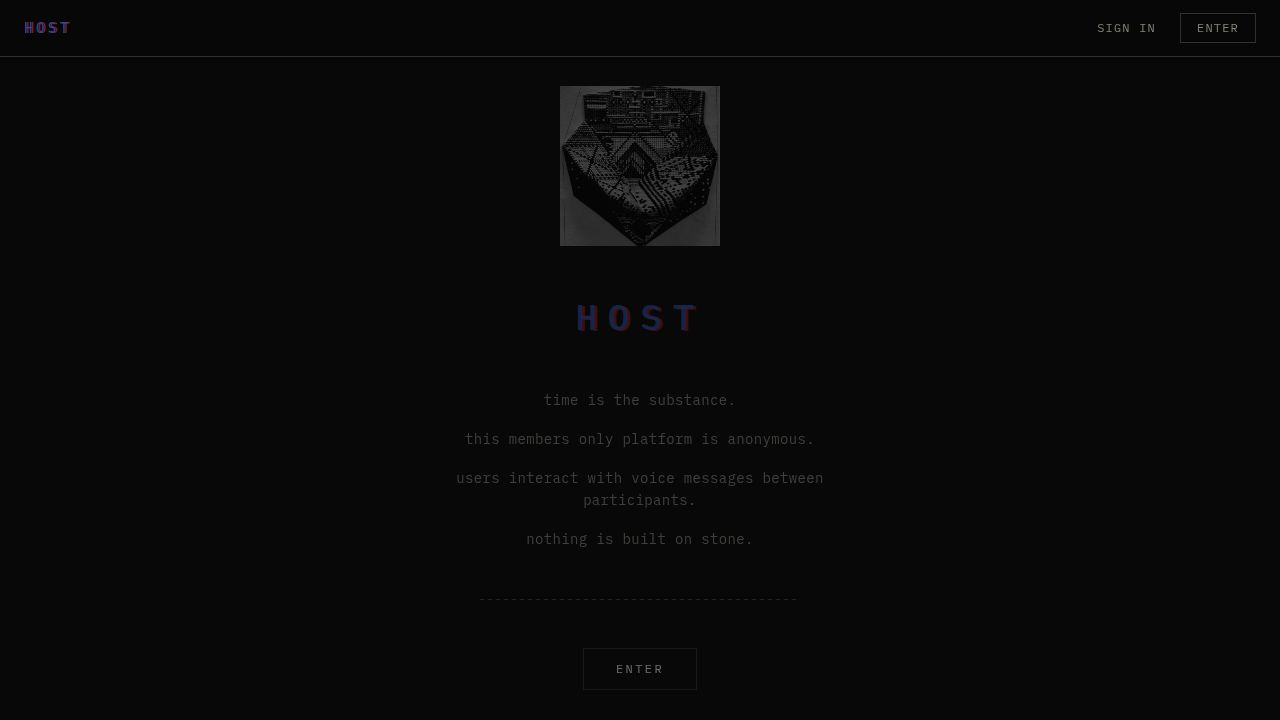
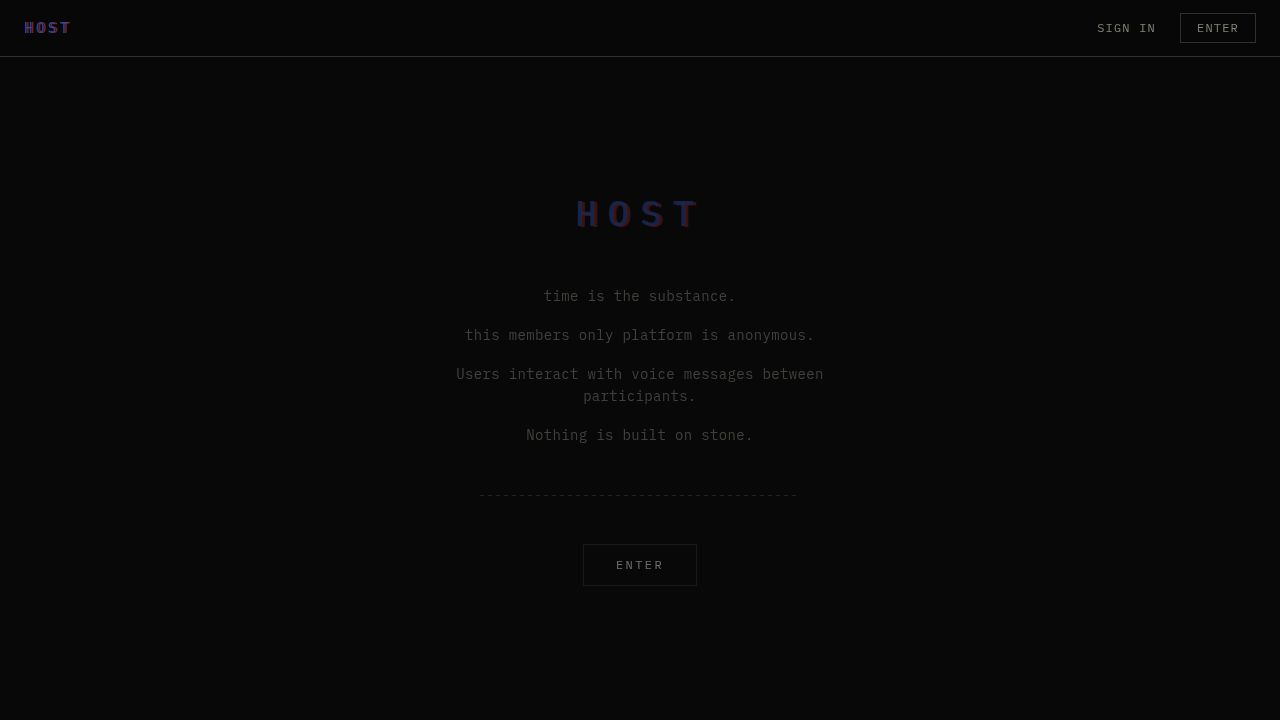
Add custom audio player to enable voice message playback
Replace native audio element with a BlobAudioPlayer component that fetches audio as a blob and creates a local URL, bypassing proxy limitations with streaming and Range headers.

Replit-Commit-Author: Agent
Replit-Commit-Session-Id: 43d64b32-6382-4e8f-a7cd-7d12992f4956
Replit-Commit-Checkpoint-Type: full_checkpoint
Replit-Commit-Event-Id: 525b9545-224a-4ed1-a698-ab76c93f8a33
Replit-Commit-Screenshot-Url: https://storage.googleapis.com/screenshot-production-us-central1/197b8c2d-517c-4af1-ab37-e358a1ab1ac9/43d64b32-6382-4e8f-a7cd-7d12992f4956/MbwB8DU
Replit-Helium-Checkpoint-Created: true

diff --git a/artifacts/host-app/src/pages/room.tsx b/artifacts/host-app/src/pages/room.tsx
@@ -7,7 +7,133 @@ import {
 } from "@workspace/api-client-react";
 import { useState, useRef, useEffect, useCallback } from "react";
 import { useQueryClient } from "@tanstack/react-query";
-import { ArrowLeft, Camera, Mic, MicOff, X, Send, ImageIcon, Volume2 } from "lucide-react";
+import { ArrowLeft, Camera, Mic, MicOff, X, Send, ImageIcon, Volume2, Play, Pause, Loader2 } from "lucide-react";
+
+function BlobAudioPlayer({ src }: { src: string }) {
+  const audioRef = useRef<HTMLAudioElement | null>(null);
+  const [blobUrl, setBlobUrl] = useState<string | null>(null);
+  const [loading, setLoading] = useState(false);
+  const [error, setError] = useState(false);
+  const [playing, setPlaying] = useState(false);
+  const [progress, setProgress] = useState(0);
+  const [duration, setDuration] = useState(0);
+
+  useEffect(() => {
+    return () => {
+      if (blobUrl) URL.revokeObjectURL(blobUrl);
+    };
+  }, [blobUrl]);
+
+  const loadAudio = useCallback(async () => {
+    if (blobUrl) return;
+    setLoading(true);
+    setError(false);
+    try {
+      const resp = await fetch(src);
+      if (!resp.ok) throw new Error("fetch failed");
+      const blob = await resp.blob();
+      const url = URL.createObjectURL(blob);
+      setBlobUrl(url);
+    } catch {
+      setError(true);
+    } finally {
+      setLoading(false);
+    }
+  }, [src, blobUrl]);
+
+  const togglePlay = useCallback(async () => {
+    if (!blobUrl) {
+      await loadAudio();
+      return;
+    }
+    const audio = audioRef.current;
+    if (!audio) return;
+    if (playing) {
+      audio.pause();
+    } else {
+      audio.play();
+    }
+  }, [blobUrl, playing, loadAudio]);
+
+  useEffect(() => {
+    if (!blobUrl) return;
+    const audio = new Audio(blobUrl);
+    audioRef.current = audio;
+
+    audio.addEventListener("loadedmetadata", () => setDuration(audio.duration));
+    audio.addEventListener("timeupdate", () => setProgress(audio.currentTime));
+    audio.addEventListener("play", () => setPlaying(true));
+    audio.addEventListener("pause", () => setPlaying(false));
+    audio.addEventListener("ended", () => { setPlaying(false); setProgress(0); });
+    audio.addEventListener("error", () => setError(true));
+
+    audio.play().catch(() => {});
+
+    return () => {
+      audio.pause();
+      audio.src = "";
+    };
+  }, [blobUrl]);
+
+  const formatTime = (s: number) => {
+    const m = Math.floor(s / 60);
+    const sec = Math.floor(s % 60);
+    return `${m}:${sec.toString().padStart(2, "0")}`;
+  };
+
+  const handleSeek = (e: React.MouseEvent<HTMLDivElement>) => {
+    const audio = audioRef.current;
+    if (!audio || !duration) return;
+    const rect = e.currentTarget.getBoundingClientRect();
+    const pct = (e.clientX - rect.left) / rect.width;
+    audio.currentTime = pct * duration;
+  };
+
+  if (error) {
+    return (
+      <div className="flex items-center gap-2 text-xs" style={{ color: "#999" }}>
+        <Volume2 className="w-4 h-4" />
+        <span>audio unavailable</span>
+      </div>
+    );
+  }
+
+  return (
+    <div className="flex items-center gap-2 mt-2">
+      <button
+        onClick={togglePlay}
+        disabled={loading}
+        className="w-7 h-7 rounded-full flex items-center justify-center shrink-0"
+        style={{ background: "#333", color: "#f5f0e8" }}
+      >
+        {loading ? (
+          <Loader2 className="w-3.5 h-3.5 animate-spin" />
+        ) : playing ? (
+          <Pause className="w-3.5 h-3.5" />
+        ) : (
+          <Play className="w-3.5 h-3.5 ml-0.5" />
+        )}
+      </button>
+      <div
+        className="flex-1 h-1.5 rounded-full cursor-pointer"
+        style={{ background: "#444" }}
+        onClick={handleSeek}
+      >
+        <div
+          className="h-full rounded-full"
+          style={{
+            background: "#f5f0e8",
+            width: duration > 0 ? `${(progress / duration) * 100}%` : "0%",
+            transition: "width 0.1s linear",
+          }}
+        />
+      </div>
+      <span className="text-xs shrink-0" style={{ color: "#999", fontFamily: "var(--font-mono)" }}>
+        {duration > 0 ? formatTime(playing ? progress : duration) : "0:00"}
+      </span>
+    </div>
+  );
+}
 
 type MediaMode = "none" | "camera" | "recording";
 
@@ -242,15 +368,7 @@ export default function Room() {
                 </div>
               )}
               {msg.mediaType === "audio" && msg.mediaUrl && (
-                <div className="mt-2 flex items-center gap-2">
-                  <Volume2 className="w-4 h-4 text-muted-foreground shrink-0" />
-                  <audio
-                    controls
-                    preload="metadata"
-                    src={`/api/storage${msg.mediaUrl}`}
-                    className="max-w-full"
-                  />
-                </div>
+                <BlobAudioPlayer src={`/api/storage${msg.mediaUrl}`} />
               )}
             </div>
           );